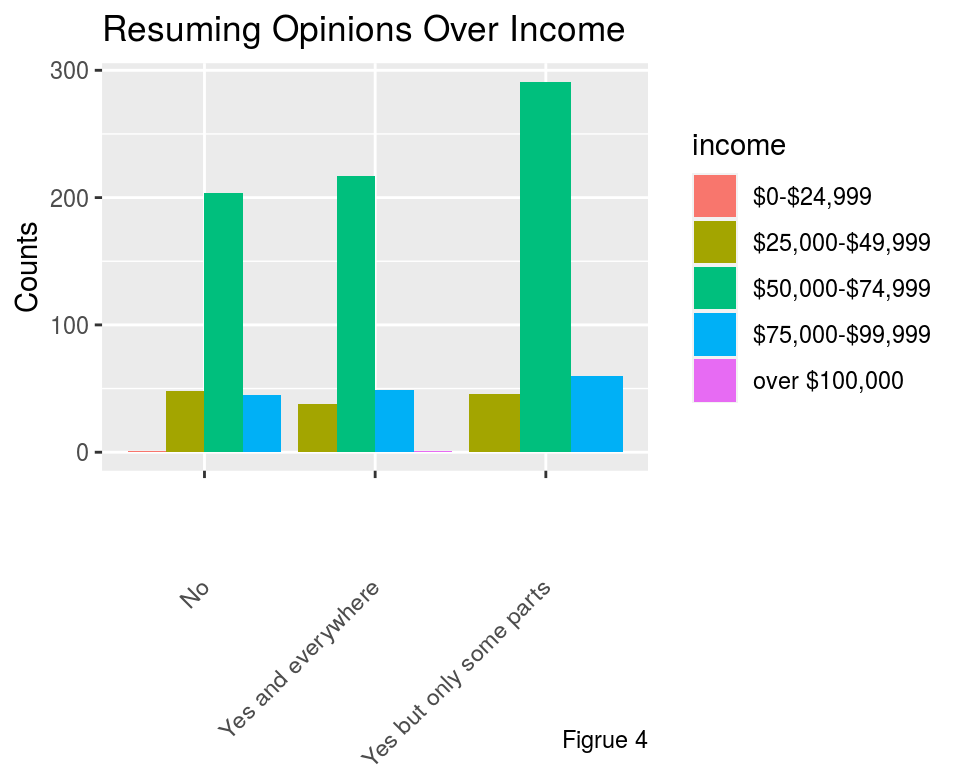
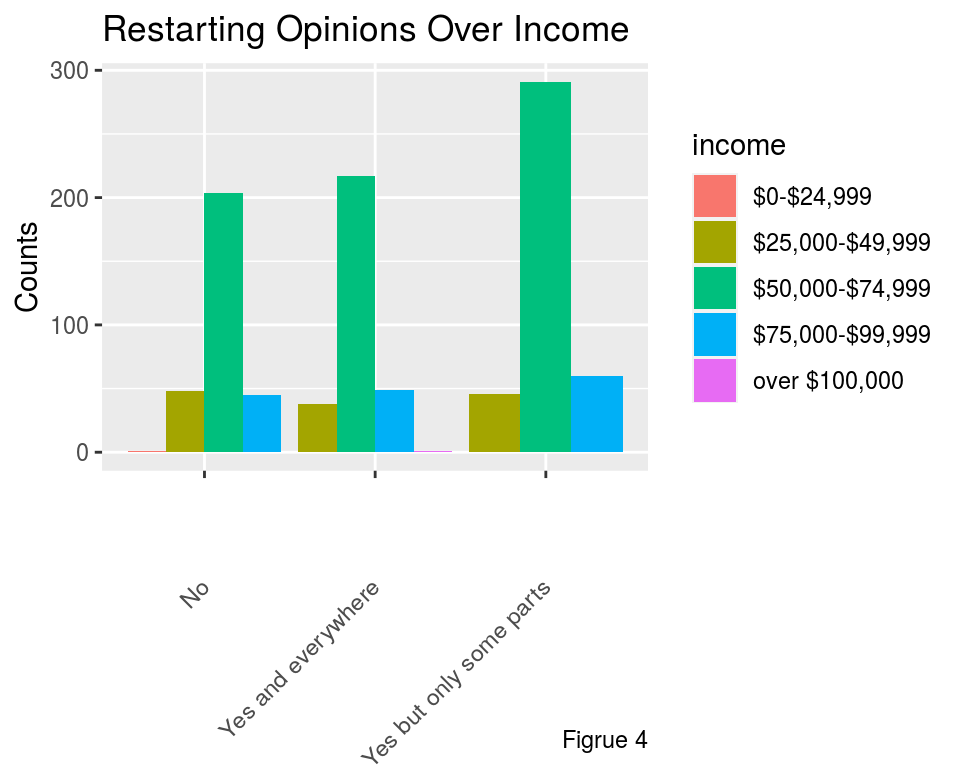
update site

Changed region(s): [[0.1562, 0.0, 0.6562, 0.0625]]

diff --git a/public/2020/10/04/a-survey-on-whether-ontarios-economy-should-be-restarted/index.html b/public/2020/10/04/a-survey-on-whether-ontarios-economy-should-be-restarted/index.html
@@ -1,17 +1,76 @@
----
-title: "A Survey on Whether Ontario's Economy Should be Restarted"
-author: "Luyao Liu, Qi Cai, Jialu Xu"
-date: 2020-10-04
-bibliography: A2.bib
-fontsize: 12pt
-link-citations: yes
-linkcolor: blue
-output:
-  pdf_document: default
-  html_document:
-    df_print: paged
----
+<!DOCTYPE html>
+<html lang="en-us">
+  <head>
+    <meta charset="utf-8">
+<meta name="viewport" content="width=device-width, initial-scale=1.0">
+<meta name="generator" content="Hugo 0.75.1" />
 
+
+<title>A Survey on Whether Ontario&#39;s Economy Should be Restarted - 304 Assignment</title>
+<meta property="og:title" content="A Survey on Whether Ontario&#39;s Economy Should be Restarted - 304 Assignment">
+
+
+  <link href='/favicon.ico' rel='icon' type='image/x-icon'/>
+
+
+
+  
+
+
+
+
+
+
+
+
+<link href='//cdnjs.cloudflare.com/ajax/libs/highlight.js/9.12.0/styles/github.min.css' rel='stylesheet' type='text/css' />
+
+
+
+<link rel="stylesheet" href="/css/fonts.css" media="all">
+<link rel="stylesheet" href="/css/main.css" media="all">
+
+
+
+  </head>
+  <body>
+    <div class="wrapper">
+      <header class="header">
+        <nav class="nav">
+  <a href="/" class="nav-logo">
+    <img src="/images/logo.png"
+         width="50"
+         height="50"
+         alt="Logo">
+  </a>
+
+  <ul class="nav-links">
+    
+    <li><a href="/about/">About Me</a></li>
+    
+    <li><a href="https://github.com/liuluyao54">GitHub</a></li>
+    
+  </ul>
+</nav>
+
+      </header>
+
+
+<main class="content" role="main">
+
+  <article class="article">
+    
+    <span class="article-duration">13 min read</span>
+    
+
+    <h1 class="article-title">A Survey on Whether Ontario&#39;s Economy Should be Restarted</h1>
+
+    
+    <span class="article-date">2020-10-04</span>
+    
+
+    <div class="article-content">
+      
 
 
 <div id="summary" class="section level1">
@@ -405,3 +464,47 @@ ggplot(data,
 </div>
 </div>
 </div>
+
+    </div>
+  </article>
+
+  
+
+
+</main>
+
+      <footer class="footer">
+        <ul class="footer-links">
+          <li>
+            <a href="/index.xml" type="application/rss+xml" target="_blank">RSS feed</a>
+          </li>
+          <li>
+            <a href="https://gohugo.io/" class="footer-links-kudos">Made with <img src="/images/hugo-logo.png" alt="Img link to Hugo website" width="22" height="22"></a>
+          </li>
+        </ul>
+      </footer>
+
+    </div>
+    
+
+
+
+<script src="//cdnjs.cloudflare.com/ajax/libs/highlight.js/9.12.0/highlight.min.js"></script>
+
+
+
+<script src="//cdnjs.cloudflare.com/ajax/libs/highlight.js/9.12.0/languages/r.min.js"></script>
+<script src="//cdnjs.cloudflare.com/ajax/libs/highlight.js/9.12.0/languages/yaml.min.js"></script>
+<script>hljs.configure({languages: []}); hljs.initHighlightingOnLoad();</script>
+
+
+
+    
+<script src="/js/math-code.js"></script>
+<script async src="//cdnjs.cloudflare.com/ajax/libs/mathjax/2.7.5/MathJax.js?config=TeX-MML-AM_CHTML"></script>
+
+
+    
+  </body>
+</html>
+

diff --git a/public/index.html b/public/index.html
@@ -73,7 +73,7 @@
     </article>
     
     <article class="archive-item">
-      <a href="/2020/10/04/a-survey-on-whether-we-should-resume-the-ontarios-economy/" class="archive-item-link">A survey on whether we should resume the Ontario&#39;s economy</a>
+      <a href="/2020/10/04/a-survey-on-whether-ontarios-economy-should-be-restarted/" class="archive-item-link">A Survey on Whether Ontario&#39;s Economy Should be Restarted</a>
       <span class="archive-item-date">
         2020-10-04
       </span>

diff --git a/public/post/index.html b/public/post/index.html
@@ -70,7 +70,7 @@
     </article>
     
     <article class="archive-item">
-      <a href="/2020/10/04/a-survey-on-whether-we-should-resume-the-ontarios-economy/" class="archive-item-link">A survey on whether we should resume the Ontario&#39;s economy</a>
+      <a href="/2020/10/04/a-survey-on-whether-ontarios-economy-should-be-restarted/" class="archive-item-link">A Survey on Whether Ontario&#39;s Economy Should be Restarted</a>
       <span class="archive-item-date">
         2020-10-04
       </span>
